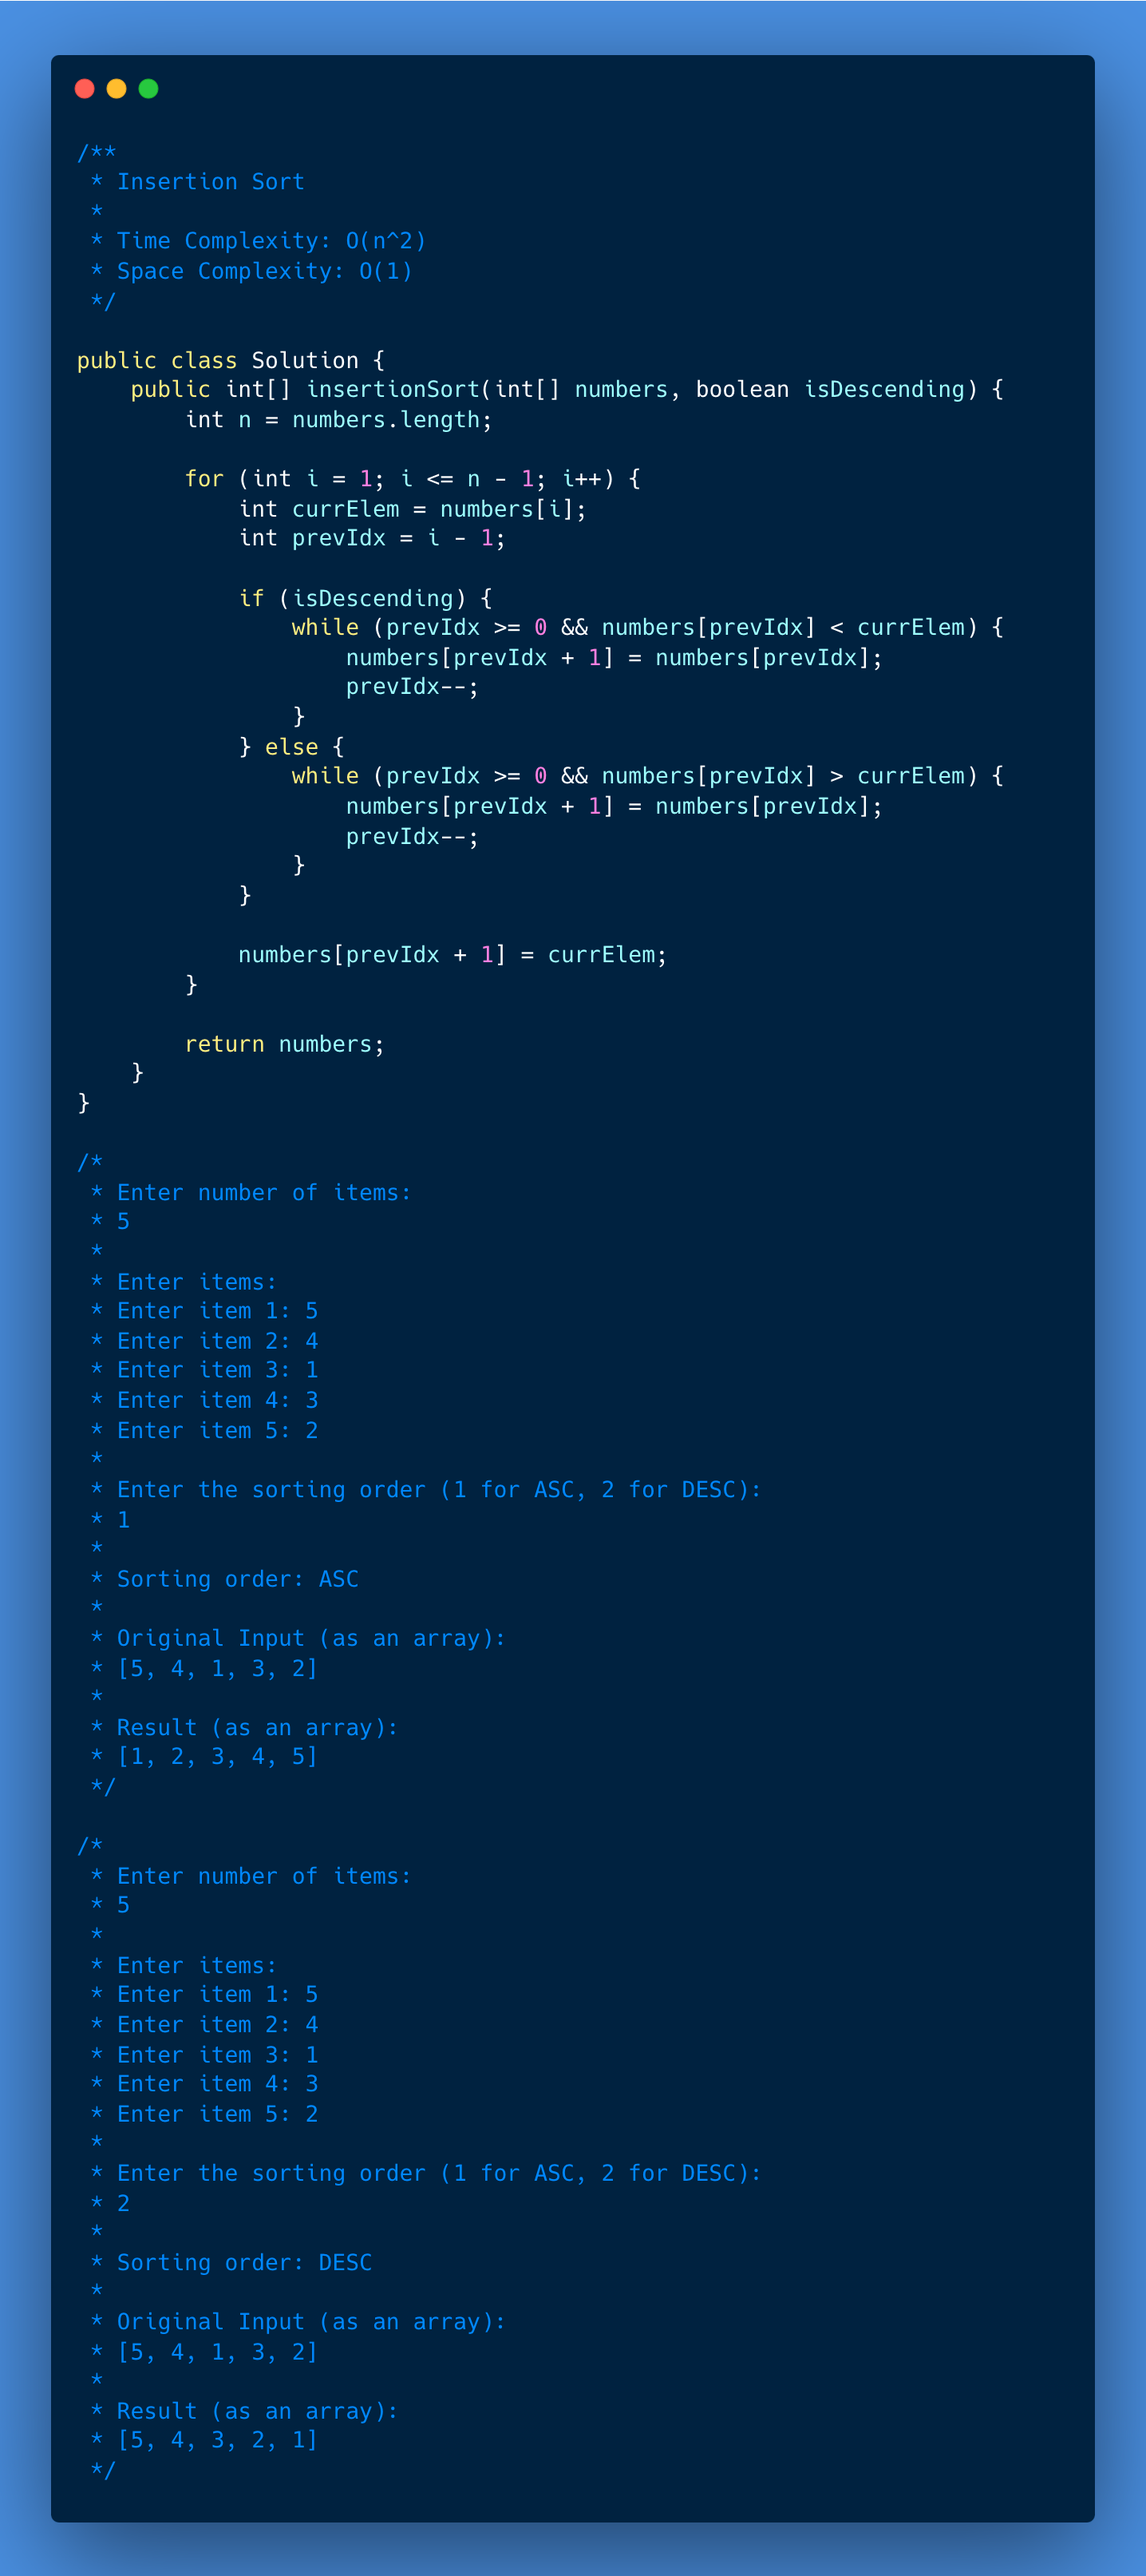
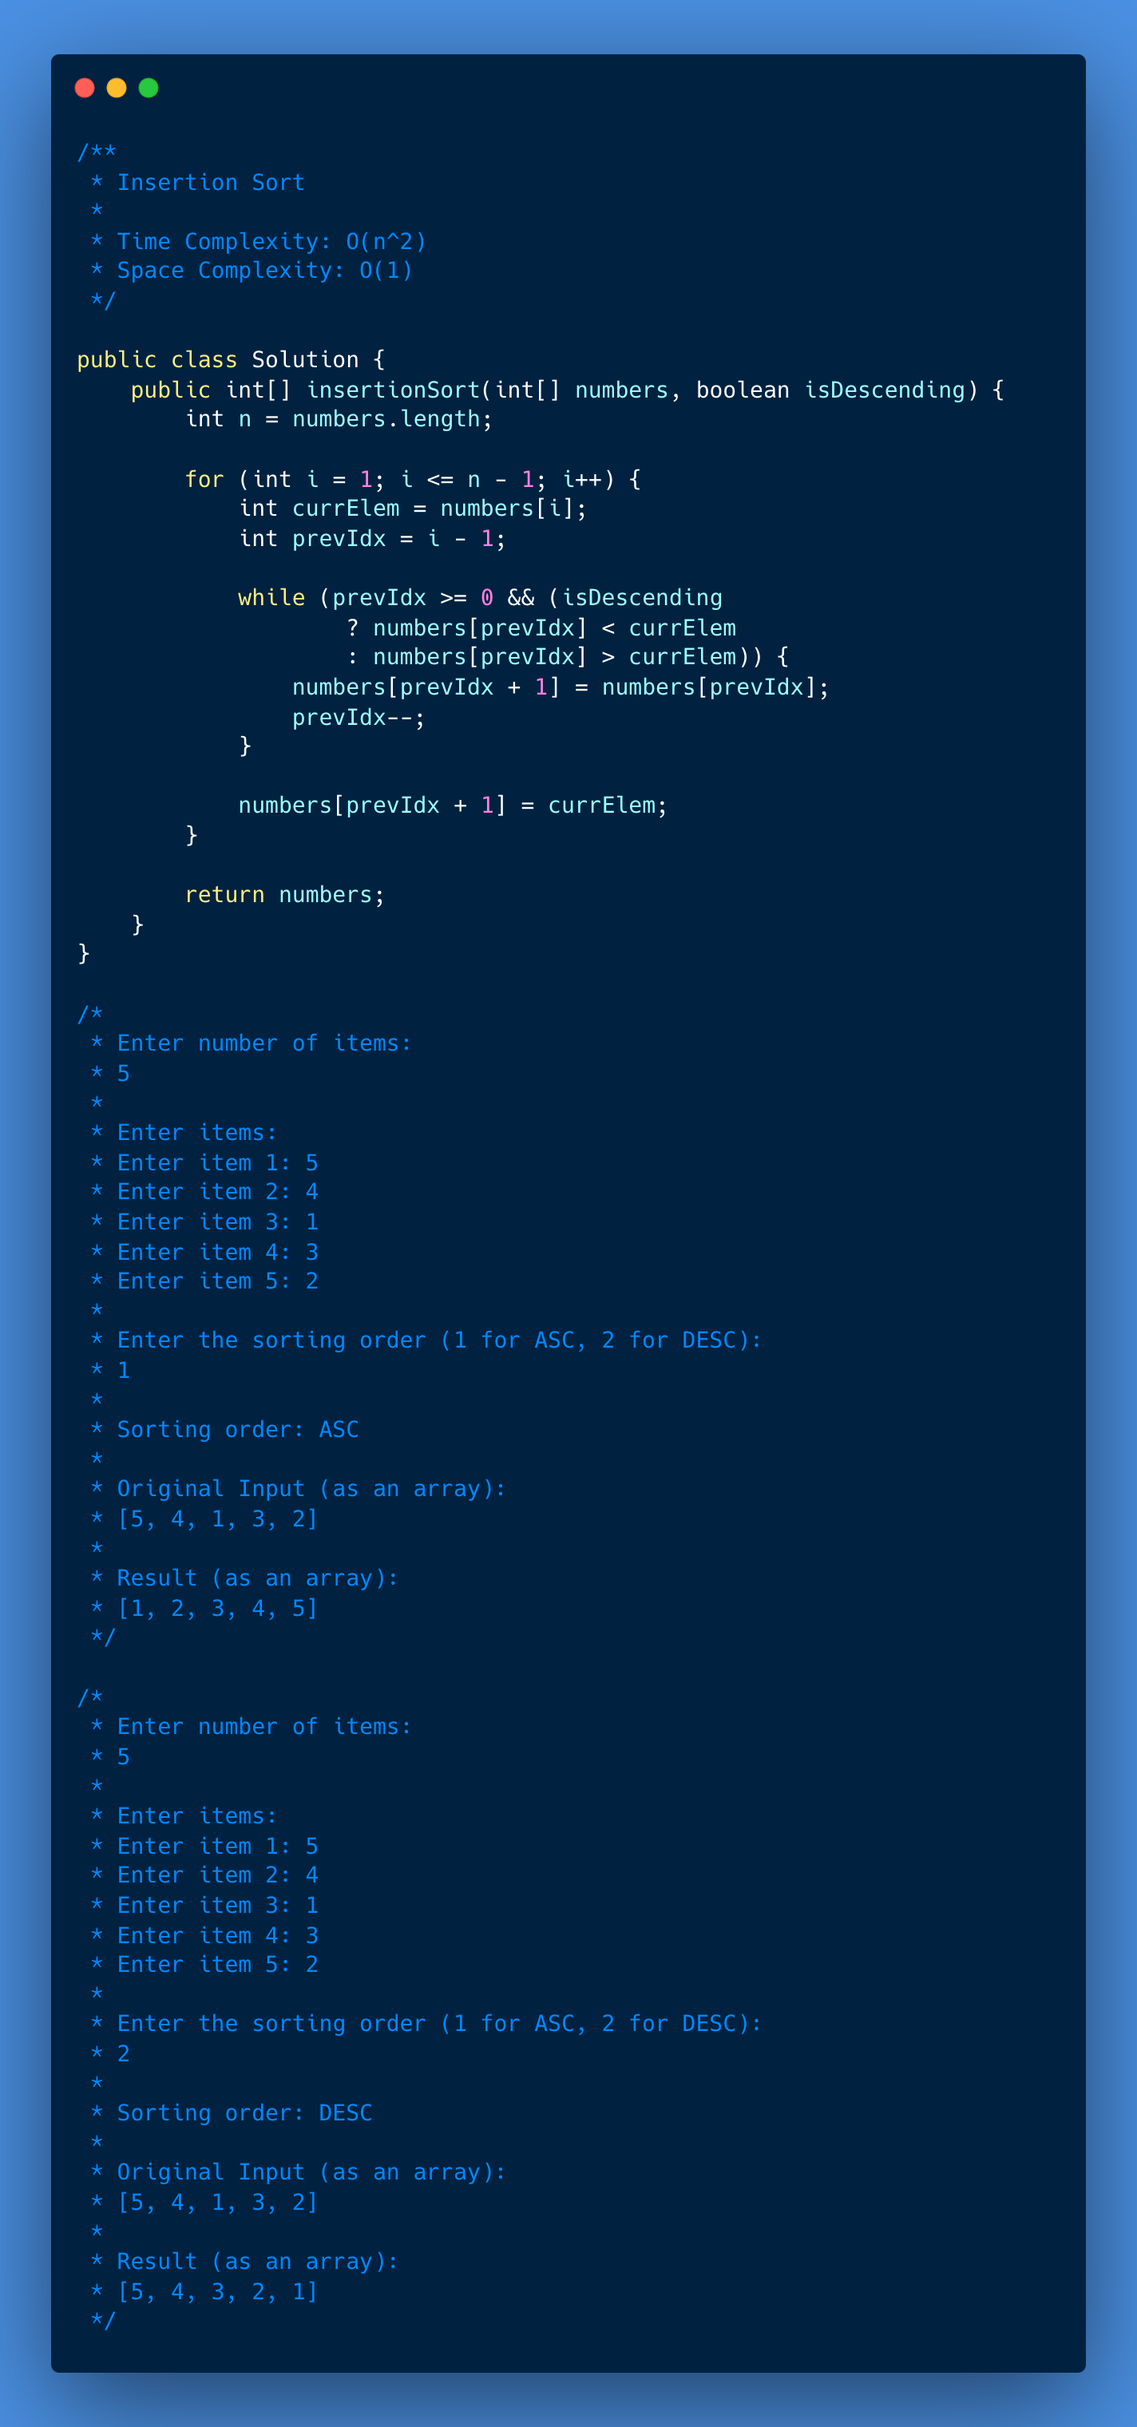
Insertion sort updates

diff --git a/053-insertion-sort/001-solution/Solution.java b/053-insertion-sort/001-solution/Solution.java
@@ -13,16 +13,11 @@ public class Solution {
             int currElem = numbers[i];
             int prevIdx = i - 1;
 
-            if (isDescending) {
-                while (prevIdx >= 0 && numbers[prevIdx] < currElem) {
-                    numbers[prevIdx + 1] = numbers[prevIdx];
-                    prevIdx--;
-                }
-            } else {
-                while (prevIdx >= 0 && numbers[prevIdx] > currElem) {
-                    numbers[prevIdx + 1] = numbers[prevIdx];
-                    prevIdx--;
-                }
+            while (prevIdx >= 0 && (isDescending
+                    ? numbers[prevIdx] < currElem
+                    : numbers[prevIdx] > currElem)) {
+                numbers[prevIdx + 1] = numbers[prevIdx];
+                prevIdx--;
             }
 
             numbers[prevIdx + 1] = currElem;
